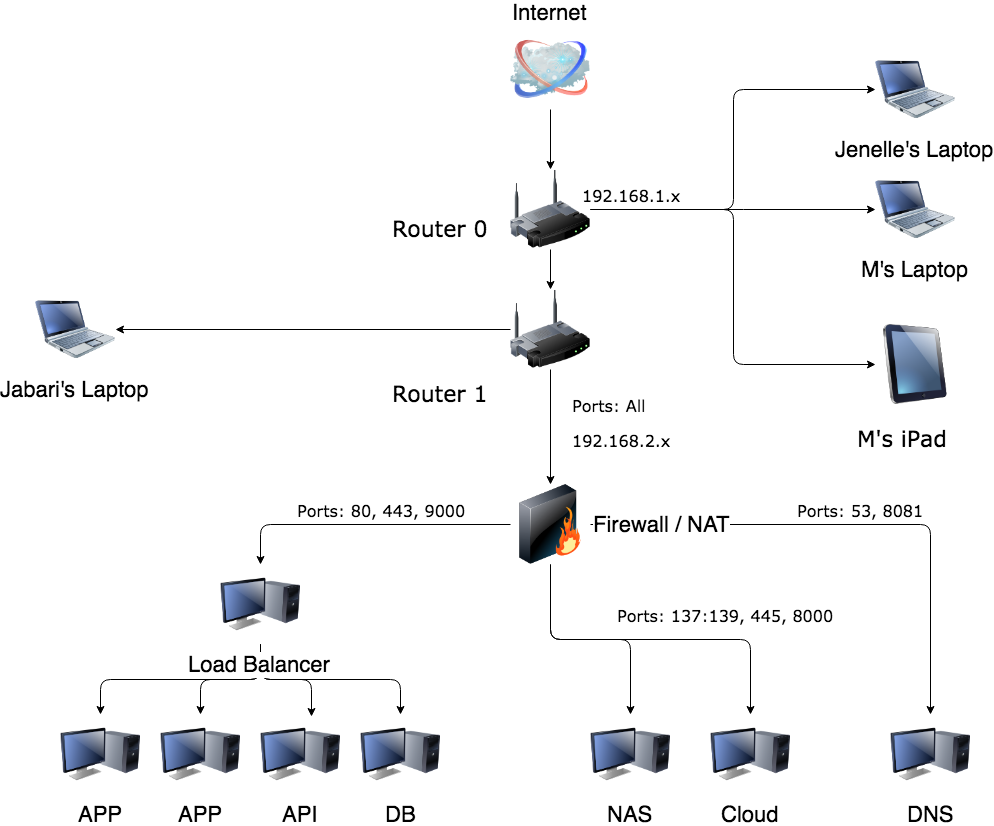
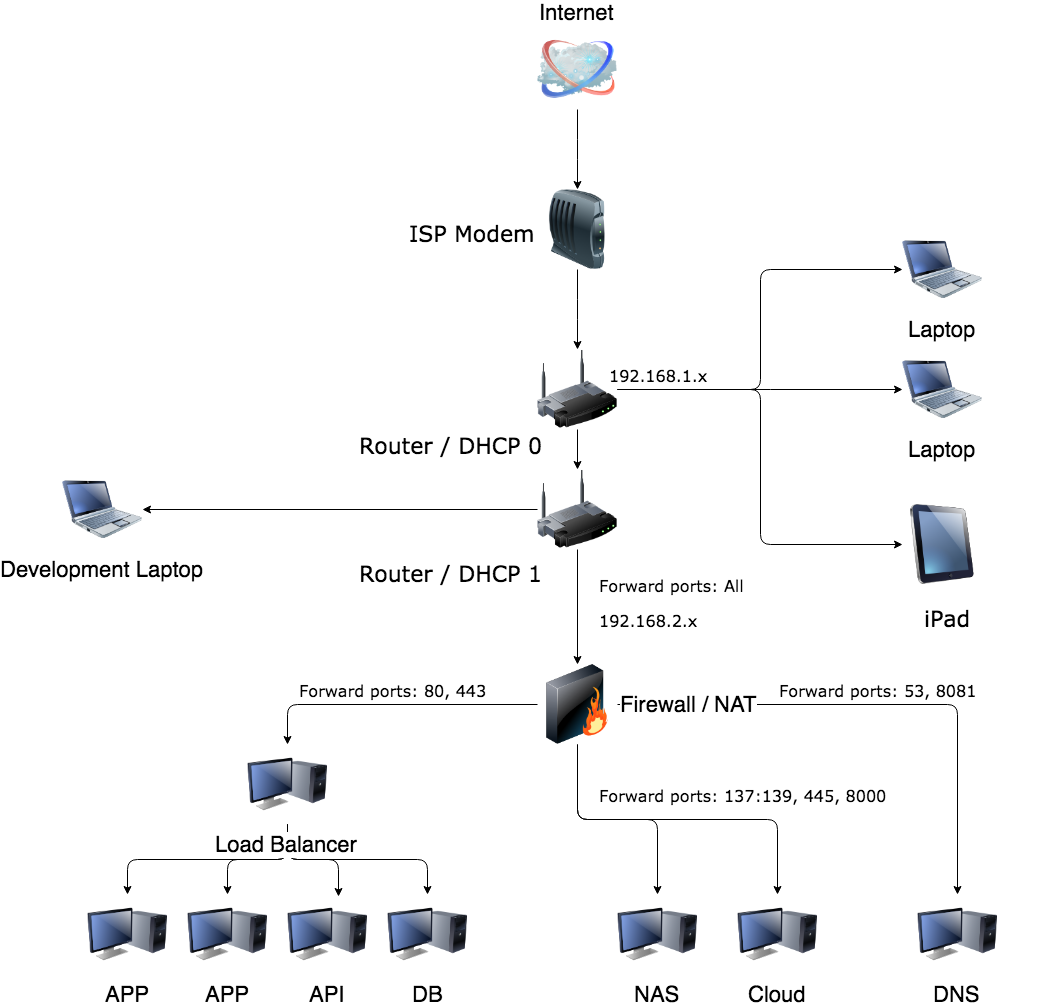
checkpoint

diff --git a/docs/_site/pages/rpi.html b/docs/_site/pages/rpi.html
@@ -67,12 +67,12 @@
 
 
       <!-- Main content -->
-      <h3 id="physical-servers">Physical servers</h3>
+      <h1 id="physical-servers">Physical servers</h1>
 <p>For the purpose of clarity, for this section the term physical server refers to
 a Raspberry Pi. But, any computer with a power cable, a network card, and an
 ethernet cable will suffice.</p>
 
-<h4 id="requirements">Requirements</h4>
+<h2 id="requirements">Requirements</h2>
 <p>For each server we require the following:</p>
 
 <p><img src="/rpi_cluster/assets/img/install/physical/materials.png" alt="materials" /></p>
@@ -85,7 +85,7 @@ ethernet cable will suffice.</p>
   <li>SD card with capacity 16GB or greater</li>
 </ul>
 
-<h4 id="setting-up-the-operating-system">Setting up the Operating System</h4>
+<h2 id="setting-up-the-operating-system">Setting up the Operating System</h2>
 <p>We must prepare the operating system for the server’s first boot.</p>
 
 <ol>
@@ -103,7 +103,7 @@ ethernet cable will suffice.</p>
   </li>
 </ol>
 
-<h4 id="enable-ssh">Enable SSH</h4>
+<h2 id="enable-ssh">Enable SSH</h2>
 <p>By default SSH is not enabled in Raspbian. We must manually enable it.</p>
 
 <ol>
@@ -117,7 +117,7 @@ ethernet cable will suffice.</p>
   </li>
 </ol>
 
-<h4 id="connecting-the-hardware">Connecting the hardware</h4>
+<h2 id="connecting-the-hardware">Connecting the hardware</h2>
 <p>Now, we need to prepare the physical device.</p>
 
 <ol>

diff --git a/docs/_site/pages/reqs.html b/docs/_site/pages/reqs.html
@@ -67,22 +67,22 @@
 
 
       <!-- Main content -->
-      <h2 id="system-requirements">System Requirements</h2>
+      <h1 id="system-requirements">System Requirements</h1>
 <p>This application implements a multi-node architecture. The requirements follow:</p>
 
-<h3 id="supported-cpu-architectures">Supported CPU Architectures</h3>
+<h2 id="supported-cpu-architectures">Supported CPU Architectures</h2>
 <p>This application was built with the Raspberry Pi (1-3) in mind. So, it’s first priority
 is to support Armv7 architectures. However, it also supports both 32-bit and 64-bit x86
 based Ubuntu installations.</p>
 
-<h3 id="minimum-requirements">Minimum Requirements</h3>
+<h2 id="minimum-requirements">Minimum Requirements</h2>
 <ul>
   <li>5 physical or virtual internet-connected servers running Raspbian or Ubuntu with at least 16GB of storage each</li>
   <li>A keyboard and monitor set for command line access to at least 1 server</li>
   <li>Either each server has a public IP or is discoverable on a private network</li>
 </ul>
 
-<h3 id="recommended-requirements">Recommended Requirements</h3>
+<h2 id="recommended-requirements">Recommended Requirements</h2>
 <ul>
   <li>5+ physical or virtual internet-connected servers running Ubuntu with at least 16GB of storage each</li>
   <li>A router that connects all devices on a separate subnet</li>

diff --git a/docs/_site/pages/install.html b/docs/_site/pages/install.html
@@ -71,6 +71,9 @@
 <p>The application can run on a variety of setups. We can use virtual machines,
 physical machines, or a mixture of both - as long as we have at least 5 in total.</p>
 
+<h2 id="setting-up-the-router">Setting up the router</h2>
+<p>All of the servers need to have internet access. If you have enough ethernet ports available on your router, you can skip to the next step and setup the servers. If not, you may need to connect a switch the your router to give you more ethernet jacks. You can additionally get an entirely separate router. The last option is ideal. If you are going to be using VMs, just make sure that the host machine is internet connected, and all the VMs with inherit that connection.</p>
+
 <h2 id="setting-up-the-cluster">Setting up the cluster</h2>
 <p>Follow either (or both) of the two setup guides to setup the servers.</p>
 
@@ -110,7 +113,7 @@ all three layers (<code class="highlighter-rouge">cli.sh</code>, <code class="hi
   </li>
 </ol>
 
-<h3 id="verify-installation-success">Verify installation success</h3>
+<h2 id="verify-installation-success">Verify installation success</h2>
 <p>We can verify that the app is up and running with the following command:</p>
 
 <div class="highlighter-rouge"><div class="highlight"><pre class="highlight"><code>curl localhost:1030

diff --git a/docs/_site/pages/ubuntu.html b/docs/_site/pages/ubuntu.html
@@ -67,11 +67,11 @@
 
 
       <!-- Main content -->
-      <h3 id="virtual-servers">Virtual servers</h3>
+      <h1 id="virtual-servers">Virtual servers</h1>
 <p>I will detail how to run virtual ubuntu servers. But, in theory you could virtualize
 Raspberry Pis.</p>
 
-<h3 id="requirements">Requirements</h3>
+<h2 id="requirements">Requirements</h2>
 <p>We do not need any physical devices other than the host machine.</p>
 
 <ul>
@@ -79,12 +79,12 @@ Raspberry Pis.</p>
 and a dual core processor</li>
 </ul>
 
-<h3 id="video-tutorial">Video tutorial</h3>
+<h2 id="video-tutorial">Video tutorial</h2>
 <p>You can watch the video tutorial or follow the screenshots.</p>
 
 <iframe class="video" src="https://www.youtube.com/embed/-c7jp62t8Ik" frameborder="0" allow="autoplay; encrypted-media" allowfullscreen=""></iframe>
 
-<h3 id="setting-up-virtualbox">Setting up VirtualBox</h3>
+<h2 id="setting-up-virtualbox">Setting up VirtualBox</h2>
 <p>First we need to set up our virtual machine environment. You can use any virtual
 machine software such as VirtualBox or VMWare. For this project, I found VirtualBox
 to be most suitable.</p>

diff --git a/docs/_site/pages/demo.html b/docs/_site/pages/demo.html
@@ -68,15 +68,19 @@
 
       <!-- Main content -->
       <h1 id="demo">Demo</h1>
-<p>Here you can find a video along with some photos to see the project in action.</p>
+<p>Here you can find a video along with a photo of my setup.</p>
 
-<h1 id="video">Video</h1>
+<h2 id="video">Video</h2>
 <p>A video of the project in action.</p>
 
 <iframe class="video" src="https://www.youtube.com/embed/ghVK01eUZNU" frameborder="0" allow="autoplay; encrypted-media" allowfullscreen=""></iframe>
 
-<h1 id="photos">Photos</h1>
-<p>A couple of photos of the equipment I used to accomplish the project.</p>
+<h2 id="my-setup">My setup</h2>
+<p>This is the apparatus that I put together to contain my servers.</p>
+
+<p><img src="../assets/img/demo/cluster.png" alt="cluster setup" /></p>
+
+<p>Right now, I have the devices neatly attached to a piece of plexiglass with velcro. The power cables get a little messy though. If I were to invest more in the setup, I would create a bottom level that would house those cables too.</p>
 
 
       <!-- Site footer -->

diff --git a/docs/_site/pages/limits.html b/docs/_site/pages/limits.html
@@ -89,7 +89,11 @@ I will name some of the most prominent ones that I am aware of.</p>
 <h2 id="containers-vs-native-installation">Containers vs. Native installation</h2>
 <p>All major components of the network (NAT, NAS, DNS, General purpose) are Docker Swarm
 clusters. Each service (Samba, Nextcloud, Pi-hole, etc) is run as a docker service or
-container. Although there is a slight overhead associated with running everything inside of
+container.</p>
+
+<p><img src="../assets/img/limits/container_vs_native.png" alt="container vs native" /></p>
+
+<p>Although there is a slight overhead associated with running everything inside of
 a container, I made this decision because it provides a layer of abstraction between the host OS
 and the service. So, platform specific settings (x86 vs arm) can be changed in the Dockerfile
 or <code class="highlighter-rouge">docker run</code> command rather than the codebase itself. That allows my code to focus solely

diff --git a/docs/_site/pages/code.html b/docs/_site/pages/code.html
@@ -70,7 +70,7 @@
       <h2 id="the-code">The code</h2>
 <p>Here I will describe the layout of the code from a high level perspective. The application is composed of three layers:</p>
 
-<p><img src="/rpi_cluster/assets/img/code_structure_diagram.png" alt="code structure diagram" /></p>
+<p><img src="../assets/img/code/code_structure_diagram.png" alt="code structure diagram" /></p>
 
 <p>The directory hierarchy appears as follows:</p>
 

diff --git a/docs/_site/pages/rpi.md b/docs/_site/pages/rpi.md
@@ -1,9 +1,9 @@
-### Physical servers
+# Physical servers
 For the purpose of clarity, for this section the term physical server refers to
 a Raspberry Pi. But, any computer with a power cable, a network card, and an
 ethernet cable will suffice.
 
-#### Requirements
+## Requirements
 For each server we require the following:
 
 ![materials](../assets/img/install/physical/materials.png)
@@ -14,7 +14,7 @@ For each server we require the following:
 * Ethernet cable
 * SD card with capacity 16GB or greater
 
-#### Setting up the Operating System
+## Setting up the Operating System
 We must prepare the operating system for the server's first boot.
 
 1. Download the [Raspbian Stretch Lite Image][raspbian_download]
@@ -26,7 +26,7 @@ We must prepare the operating system for the server's first boot.
 3. Click "Select Image," select the downloaded Raspbian Image and if Etcher does not automatically detect your SD card, click "Select Drive" and select your SD card. Then click "Flash". This will burn the Raspbian Image to the SD card.
 ![step 3](../assets/img/install/physical/physical_step_03.png)
 
-#### Enable SSH
+## Enable SSH
 By default SSH is not enabled in Raspbian. We must manually enable it.
 
 1. Eject, remove, and reinsert the SD card. The "boot" partition should appear in Finder, or Explorer in Windows
@@ -35,7 +35,7 @@ By default SSH is not enabled in Raspbian. We must manually enable it.
 2. Create an empty file on your Desktop named "ssh". Drag it to the "boot" partition of the SD card
 ![step 5](../assets/img/install/physical/physical_step_05.png)
 
-#### Connecting the hardware
+## Connecting the hardware
 Now, we need to prepare the physical device.
 
 1. Insert the SD card into the Raspberry Pi

diff --git a/docs/pages/rpi.md b/docs/pages/rpi.md
@@ -1,9 +1,9 @@
-### Physical servers
+# Physical servers
 For the purpose of clarity, for this section the term physical server refers to
 a Raspberry Pi. But, any computer with a power cable, a network card, and an
 ethernet cable will suffice.
 
-#### Requirements
+## Requirements
 For each server we require the following:
 
 ![materials](../assets/img/install/physical/materials.png)
@@ -14,7 +14,7 @@ For each server we require the following:
 * Ethernet cable
 * SD card with capacity 16GB or greater
 
-#### Setting up the Operating System
+## Setting up the Operating System
 We must prepare the operating system for the server's first boot.
 
 1. Download the [Raspbian Stretch Lite Image][raspbian_download]
@@ -26,7 +26,7 @@ We must prepare the operating system for the server's first boot.
 3. Click "Select Image," select the downloaded Raspbian Image and if Etcher does not automatically detect your SD card, click "Select Drive" and select your SD card. Then click "Flash". This will burn the Raspbian Image to the SD card.
 ![step 3](../assets/img/install/physical/physical_step_03.png)
 
-#### Enable SSH
+## Enable SSH
 By default SSH is not enabled in Raspbian. We must manually enable it.
 
 1. Eject, remove, and reinsert the SD card. The "boot" partition should appear in Finder, or Explorer in Windows
@@ -35,7 +35,7 @@ By default SSH is not enabled in Raspbian. We must manually enable it.
 2. Create an empty file on your Desktop named "ssh". Drag it to the "boot" partition of the SD card
 ![step 5](../assets/img/install/physical/physical_step_05.png)
 
-#### Connecting the hardware
+## Connecting the hardware
 Now, we need to prepare the physical device.
 
 1. Insert the SD card into the Raspberry Pi

diff --git a/docs/_site/pages/install.md b/docs/_site/pages/install.md
@@ -2,6 +2,9 @@
 The application can run on a variety of setups. We can use virtual machines,
 physical machines, or a mixture of both - as long as we have at least 5 in total.
 
+## Setting up the router
+All of the servers need to have internet access. If you have enough ethernet ports available on your router, you can skip to the next step and setup the servers. If not, you may need to connect a switch the your router to give you more ethernet jacks. You can additionally get an entirely separate router. The last option is ideal. If you are going to be using VMs, just make sure that the host machine is internet connected, and all the VMs with inherit that connection.
+
 ## Setting up the cluster
 Follow either (or both) of the two setup guides to setup the servers.
 
@@ -40,7 +43,7 @@ all three layers (`cli.sh`, `api.py`, and `gui.js`) can run correctly.
 ./setup.sh
 ```
 
-### Verify installation success
+## Verify installation success
 We can verify that the app is up and running with the following command:
 
 ```

diff --git a/docs/pages/install.md b/docs/pages/install.md
@@ -2,6 +2,9 @@
 The application can run on a variety of setups. We can use virtual machines,
 physical machines, or a mixture of both - as long as we have at least 5 in total.
 
+## Setting up the router
+All of the servers need to have internet access. If you have enough ethernet ports available on your router, you can skip to the next step and setup the servers. If not, you may need to connect a switch the your router to give you more ethernet jacks. You can additionally get an entirely separate router. The last option is ideal. If you are going to be using VMs, just make sure that the host machine is internet connected, and all the VMs with inherit that connection.
+
 ## Setting up the cluster
 Follow either (or both) of the two setup guides to setup the servers.
 
@@ -40,7 +43,7 @@ all three layers (`cli.sh`, `api.py`, and `gui.js`) can run correctly.
 ./setup.sh
 ```
 
-### Verify installation success
+## Verify installation success
 We can verify that the app is up and running with the following command:
 
 ```

diff --git a/docs/_site/pages/reqs.md b/docs/_site/pages/reqs.md
@@ -1,17 +1,17 @@
-## System Requirements
+# System Requirements
 This application implements a multi-node architecture. The requirements follow:
 
-### Supported CPU Architectures
+## Supported CPU Architectures
 This application was built with the Raspberry Pi (1-3) in mind. So, it's first priority
 is to support Armv7 architectures. However, it also supports both 32-bit and 64-bit x86
 based Ubuntu installations.
 
-### Minimum Requirements
+## Minimum Requirements
 * 5 physical or virtual internet-connected servers running Raspbian or Ubuntu with at least 16GB of storage each
 * A keyboard and monitor set for command line access to at least 1 server
 * Either each server has a public IP or is discoverable on a private network
 
-### Recommended Requirements
+## Recommended Requirements
 * 5+ physical or virtual internet-connected servers running Ubuntu with at least 16GB of storage each
 * A router that connects all devices on a separate subnet
 * 5+ ethernet cables that connect each physical server to the router
